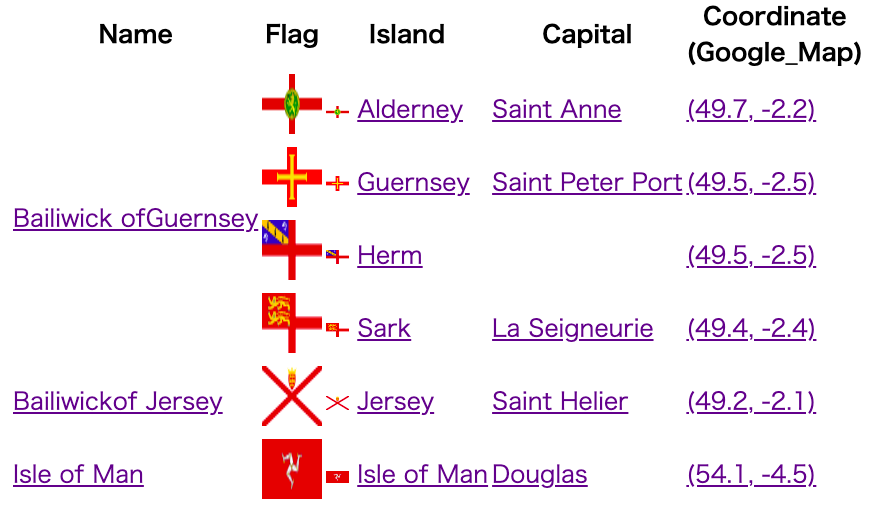
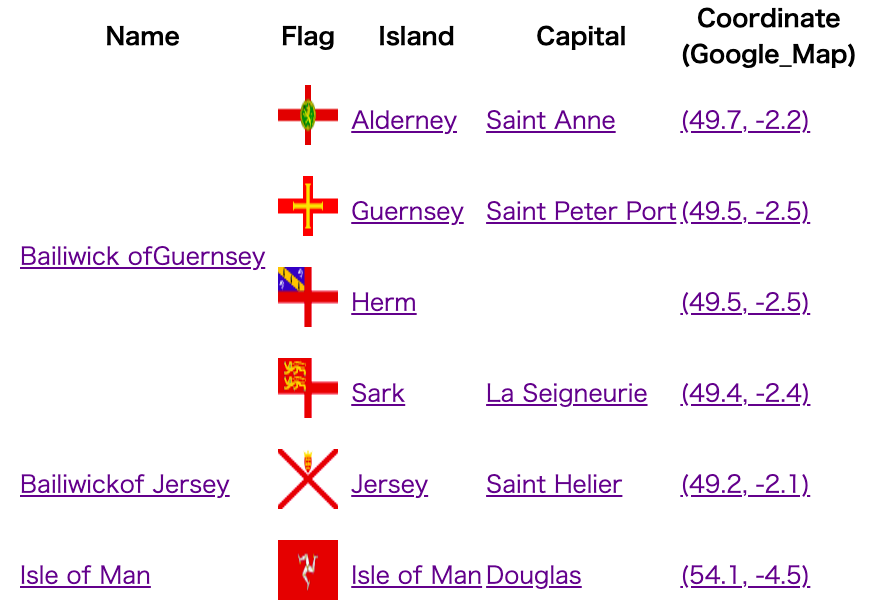
update

diff --git a/crown_dependencies_coordinates/files/crown_dependencies_coordinates.html b/crown_dependencies_coordinates/files/crown_dependencies_coordinates.html
@@ -23,37 +23,37 @@ UN Countries
 <tbody>
 <tr>
 <td rowspan="4" ><a href="https://en.wikipedia.org/wiki/Bailiwick_of_Guernsey">Bailiwick ofGuernsey</a></td>
-<td align="center" stlyle="margin:10px; "><img src="https://upload.wikimedia.org/wikipedia/commons/thumb/f/f3/Flag_of_Alderney.svg/60px-Flag_of_Alderney.svg.png" decoding="async"  width="60" height="60" /></td>
-<td><img src="https://upload.wikimedia.org/wikipedia/commons/thumb/f/f3/Flag_of_Alderney.svg/23px-Flag_of_Alderney.svg.png" decoding="async"  width="23" height="12" /> <a href="https://en.wikipedia.org/wiki/Alderney">Alderney</a></td>
+<td align="center" style="padding: 10px"><img src="https://upload.wikimedia.org/wikipedia/commons/thumb/f/f3/Flag_of_Alderney.svg/60px-Flag_of_Alderney.svg.png" decoding="async"  width="60" height="60" /></td>
+<td><a href="https://en.wikipedia.org/wiki/Alderney">Alderney</a></td>
 <td><a href="https://en.wikipedia.org/wiki/Saint_Anne%2c_Alderney">Saint Anne</a></td>
 <td><a href="https://www.google.com/maps/@49.713333,-2.205833,8z">(49.7, -2.2)</a></td>
 </tr>
 <tr>
-<td align="center"><img src="https://upload.wikimedia.org/wikipedia/commons/thumb/f/fa/Flag_of_Guernsey.svg/60px-Flag_of_Guernsey.svg.png" decoding="async"  width="60" height="60" /></td>
-<td><img src="https://upload.wikimedia.org/wikipedia/commons/thumb/f/fa/Flag_of_Guernsey.svg/23px-Flag_of_Guernsey.svg.png" decoding="async"  width="23" height="15" /> <a href="https://en.wikipedia.org/wiki/Guernsey">Guernsey</a></td>
+<td align="center" style="padding: 10px"><img src="https://upload.wikimedia.org/wikipedia/commons/thumb/f/fa/Flag_of_Guernsey.svg/60px-Flag_of_Guernsey.svg.png" decoding="async"  width="60" height="60" /></td>
+<td><a href="https://en.wikipedia.org/wiki/Guernsey">Guernsey</a></td>
 <td><a href="https://en.wikipedia.org/wiki/Saint_Peter_Port">Saint Peter Port</a></td>
 <td><a href="https://www.google.com/maps/@49.4555,-2.5368,8z">(49.5, -2.5)</a></td>
 </tr><tr>
-<td align="center"><img src="https://upload.wikimedia.org/wikipedia/commons/thumb/b/b8/Flag_of_Herm.svg/60px-Flag_of_Herm.svg.png" decoding="async"  width="60" height="60" /></td>
-<td><img src="https://upload.wikimedia.org/wikipedia/commons/thumb/b/b8/Flag_of_Herm.svg/23px-Flag_of_Herm.svg.png" decoding="async"  width="23" height="14" /> <a href="https://en.wikipedia.org/wiki/Herm">Herm</a></td>
+<td align="center" style="padding: 10px"><img src="https://upload.wikimedia.org/wikipedia/commons/thumb/b/b8/Flag_of_Herm.svg/60px-Flag_of_Herm.svg.png" decoding="async"  width="60" height="60" /></td>
+<td><a href="https://en.wikipedia.org/wiki/Herm">Herm</a></td>
 <td><a href=""></a></td>
 <td><a href="https://www.google.com/maps/@49.466667,-2.45,8z">(49.5, -2.5)</a></td>
 </tr><tr>
-<td align="center"><img src="https://upload.wikimedia.org/wikipedia/commons/thumb/6/64/Flag_of_Sark.svg/60px-Flag_of_Sark.svg.png" decoding="async"  width="60" height="60" /></td>
-<td><img src="https://upload.wikimedia.org/wikipedia/commons/thumb/6/64/Flag_of_Sark.svg/23px-Flag_of_Sark.svg.png" decoding="async"  width="23" height="14" /> <a href="https://en.wikipedia.org/wiki/Sark">Sark</a></td>
+<td align="center" style="padding: 10px"><img src="https://upload.wikimedia.org/wikipedia/commons/thumb/6/64/Flag_of_Sark.svg/60px-Flag_of_Sark.svg.png" decoding="async"  width="60" height="60" /></td>
+<td><a href="https://en.wikipedia.org/wiki/Sark">Sark</a></td>
 <td><a href="https://en.wikipedia.org/wiki/La_Seigneurie">La Seigneurie</a></td>
 <td><a href="https://www.google.com/maps/@49.43775,-2.36272,8z">(49.4, -2.4)</a></td>
 </tr><tr>
 <td ><a href="https://en.wikipedia.org/wiki/Jersey">Bailiwickof Jersey</a></td>
-<td align="center" stlyle="margin:10px; "><img src="https://upload.wikimedia.org/wikipedia/commons/thumb/1/1c/Flag_of_Jersey.svg/60px-Flag_of_Jersey.svg.png" decoding="async"  width="60" height="60" /></td>
-<td><img src="https://upload.wikimedia.org/wikipedia/commons/thumb/1/1c/Flag_of_Jersey.svg/23px-Flag_of_Jersey.svg.png" decoding="async"  width="23" height="14" /> <a href="https://en.wikipedia.org/wiki/Jersey">Jersey</a></td>
+<td align="center" style="padding: 10px"><img src="https://upload.wikimedia.org/wikipedia/commons/thumb/1/1c/Flag_of_Jersey.svg/60px-Flag_of_Jersey.svg.png" decoding="async"  width="60" height="60" /></td>
+<td><a href="https://en.wikipedia.org/wiki/Jersey">Jersey</a></td>
 <td><a href="https://en.wikipedia.org/wiki/Saint_Helier">Saint Helier</a></td>
 <td><a href="https://www.google.com/maps/@49.185833,-2.11,8z">(49.2, -2.1)</a></td>
 </tr>
 <tr>
 <td ><a href="https://en.wikipedia.org/wiki/Isle_of_Man">Isle of Man</a></td>
-<td align="center" stlyle="margin:10px; "><img src="https://upload.wikimedia.org/wikipedia/commons/thumb/5/5d/Flag_of_the_Isle_of_Mann.svg/60px-Flag_of_the_Isle_of_Mann.svg.png" decoding="async"  width="60" height="60" /></td>
-<td><img src="https://upload.wikimedia.org/wikipedia/commons/thumb/5/5d/Flag_of_the_Isle_of_Mann.svg/23px-Flag_of_the_Isle_of_Mann.svg.png" decoding="async"  width="23" height="12" /> <a href="https://en.wikipedia.org/wiki/Isle_of_Man">Isle of Man</a></td>
+<td align="center" style="padding: 10px"><img src="https://upload.wikimedia.org/wikipedia/commons/thumb/5/5d/Flag_of_the_Isle_of_Mann.svg/60px-Flag_of_the_Isle_of_Mann.svg.png" decoding="async"  width="60" height="60" /></td>
+<td><a href="https://en.wikipedia.org/wiki/Isle_of_Man">Isle of Man</a></td>
 <td><a href="https://en.wikipedia.org/wiki/Douglas%2c_Isle_of_Man">Douglas</a></td>
 <td><a href="https://www.google.com/maps/@54.145,-4.482,8z">(54.1, -4.5)</a></td>
 </tr>

diff --git a/crown_dependencies_coordinates/python/json2html.py b/crown_dependencies_coordinates/python/json2html.py
@@ -62,9 +62,6 @@ with open('crown_dependencies_coordinates.json') as f4:
         url_flag = item['url_flag']
         flag_width = item['flag_width']
         flag_height = item['flag_height']
-        url_flag_icon = item['url_flag_icon']
-        icon_width = item['icon_width']
-        icon_height = item['icon_height']
         lat = item['lat']
         lon = item['lon']
         print('id: ', id)
@@ -74,14 +71,13 @@ with open('crown_dependencies_coordinates.json') as f4:
         row_island = FORMAT_A_TAG.format(href=url_island, name= island)
         row_capital = FORMAT_A_TAG.format(href=url_capital, name=capital)
         row_flag = FORMAT_IMG.format(src=url_flag, width=flag_width, height=flag_height)
-        row_flag_icon = FORMAT_IMG.format(src=url_flag_icon, width=icon_width, height=icon_height)
         row_coordinates = make_coordinates(lat, lon)
         row_rowspan = make_rowspan(rowspan)
 
         if group == 0:
-            row = template_row.format(teritory=row_teritory, island=row_island, capital=row_capital, flag=row_flag, flag_icon=row_flag_icon, coordinates=row_coordinates, rowspan= row_rowspan)
+            row = template_row.format(teritory=row_teritory, island=row_island, capital=row_capital, flag=row_flag, coordinates=row_coordinates, rowspan= row_rowspan)
         else:
-            row = template_row_island.format( island=row_island, capital=row_capital, flag=row_flag, flag_icon=row_flag_icon, coordinates=row_coordinates )
+            row = template_row_island.format( island=row_island, capital=row_capital, flag=row_flag,  coordinates=row_coordinates )
         print(row)
         rows +=  row
 #
